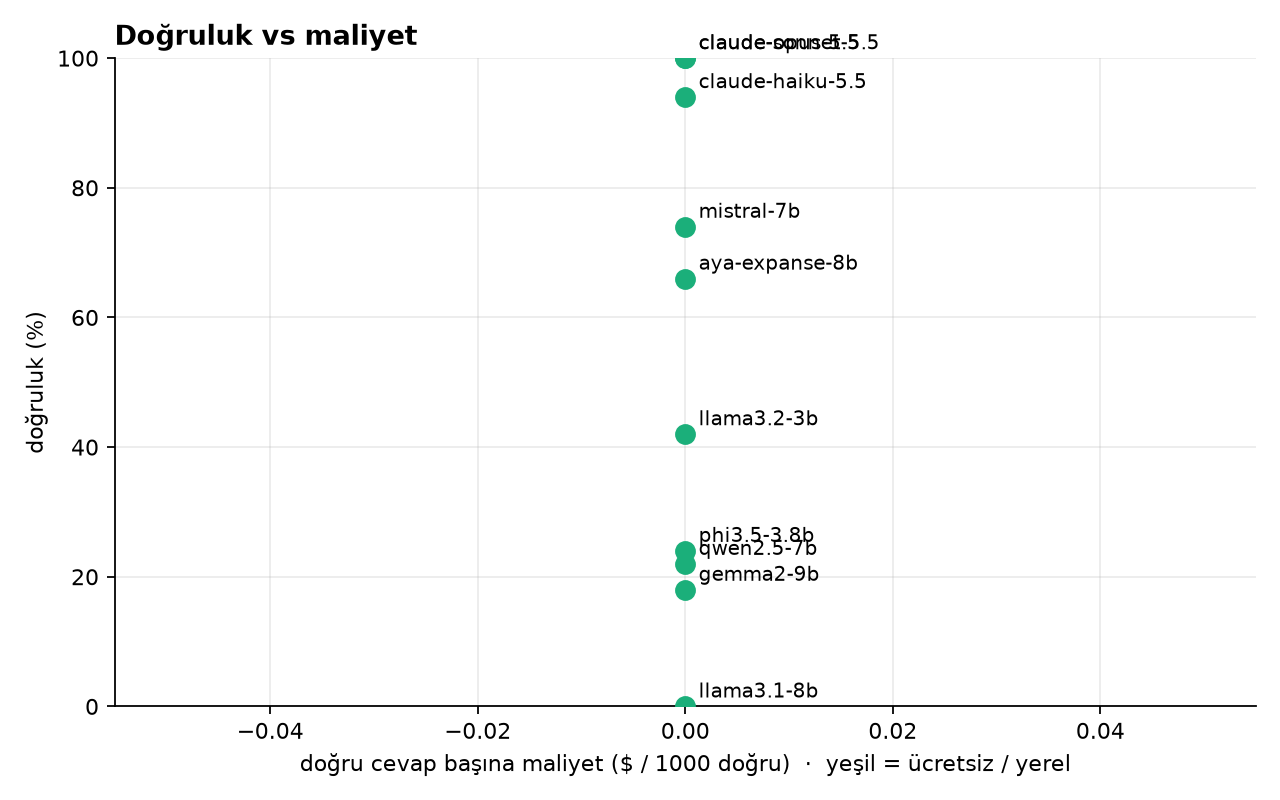
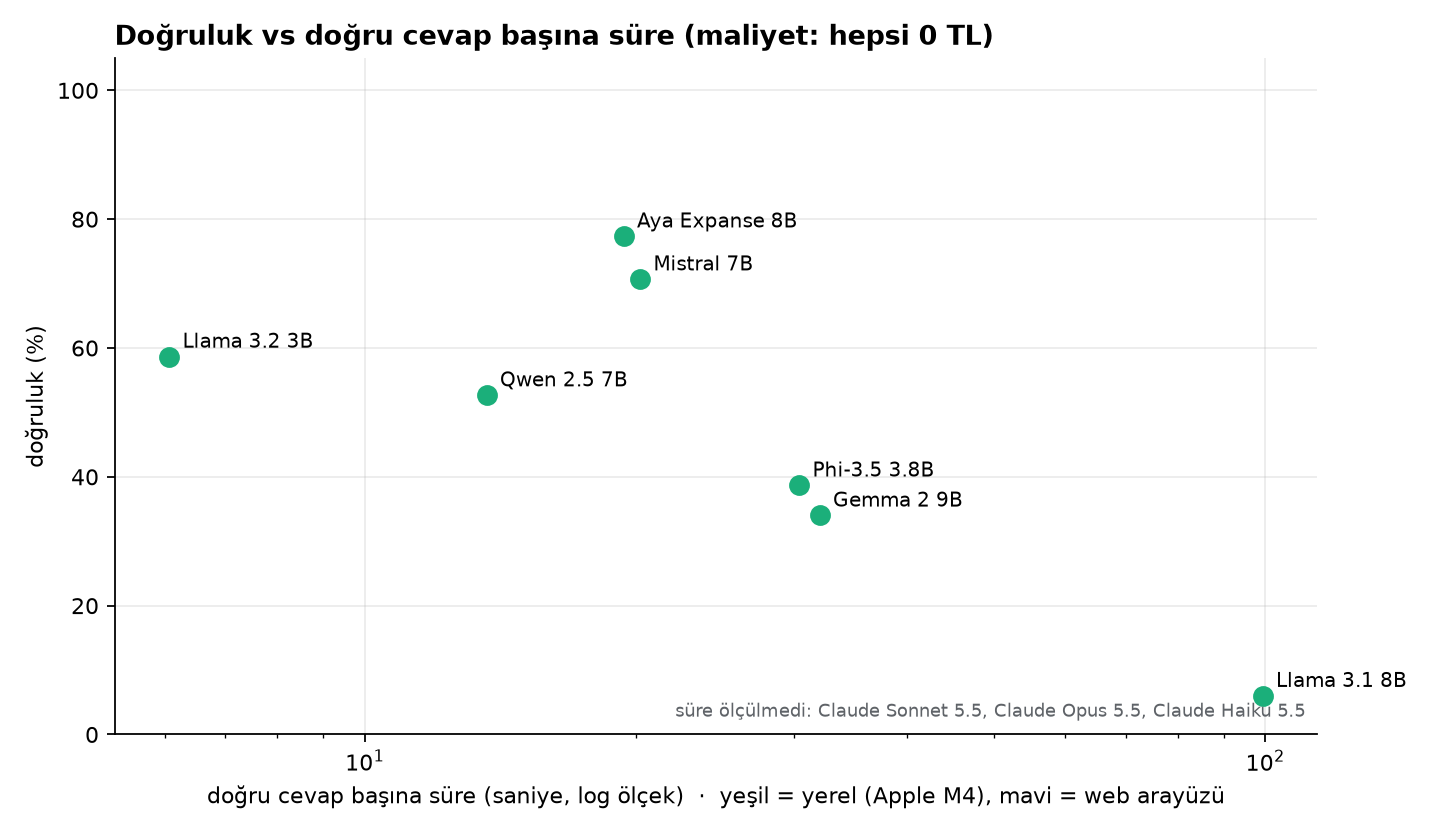
Update benchmark page with 150 questions and human vs AI results

diff --git a/src/Benchmark.tsx b/src/Benchmark.tsx
@@ -1,37 +1,42 @@
 import { ArrowUpRight } from 'lucide-react';
 
-// Scores from github.com/foqunty/turkce-ozet-halusinasyon-benchmark (prompt v1, temperature 0).
-// main: 50 fictional paragraphs · wiki: 25 real Wikipedia texts, original / one fact changed.
-type Row = { model: string; open: boolean; main: number; facts: number; fabNum: number; fabName: number; sec?: number; wikiOrig: number; wikiChanged: number };
+// Scores from github.com/foqunty/turkce-ozet-halusinasyon-benchmark (prompt v1, temperature 0 for open models).
+// main: 150 fictional paragraphs (100 human-written + 50 AI-written) · wiki: 25 real Wikipedia texts, original / one fact changed.
+type Row = { model: string; open: boolean; main: number; human: number; ai: number; facts: number; fabNum: number; fabName: number; sec?: number; wikiOrig?: number; wikiChanged?: number };
 const rows: Row[] = [
-  { model: 'Claude Opus 5.5', open: false, main: 100, facts: 3.0, fabNum: 0, fabName: 0, wikiOrig: 25, wikiChanged: 25 },
-  { model: 'Claude Sonnet 5.5', open: false, main: 100, facts: 3.0, fabNum: 0, fabName: 0, wikiOrig: 23, wikiChanged: 23 },
-  { model: 'Claude Haiku 5.5', open: false, main: 94, facts: 2.94, fabNum: 0, fabName: 0, wikiOrig: 20, wikiChanged: 17 },
-  { model: 'Mistral 7B', open: true, main: 74, facts: 2.72, fabNum: 4, fabName: 2, sec: 10.8, wikiOrig: 12, wikiChanged: 11 },
-  { model: 'Aya Expanse 8B', open: true, main: 66, facts: 2.62, fabNum: 0, fabName: 0, sec: 7.0, wikiOrig: 10, wikiChanged: 10 },
-  { model: 'Llama 3.2 3B', open: true, main: 42, facts: 2.26, fabNum: 0, fabName: 0, sec: 3.0, wikiOrig: 9, wikiChanged: 9 },
-  { model: 'Phi 3.5 3.8B', open: true, main: 24, facts: 2.32, fabNum: 48, fabName: 46, sec: 10.7, wikiOrig: 2, wikiChanged: 3 },
-  { model: 'Qwen 2.5 7B', open: true, main: 22, facts: 1.98, fabNum: 0, fabName: 2, sec: 4.3, wikiOrig: 6, wikiChanged: 5 },
-  { model: 'Gemma 2 9B', open: true, main: 18, facts: 1.88, fabNum: 0, fabName: 0, sec: 6.3, wikiOrig: 5, wikiChanged: 5 },
-  { model: 'Llama 3.1 8B', open: true, main: 0, facts: 0.78, fabNum: 46, fabName: 22, sec: 3.9, wikiOrig: 1, wikiChanged: 1 },
+  { model: 'Claude Opus 5.5', open: false, main: 100, human: 100, ai: 100, facts: 3.0, fabNum: 0, fabName: 0, wikiOrig: 25, wikiChanged: 25 },
+  { model: 'Claude Sonnet 5.5', open: false, main: 100, human: 100, ai: 100, facts: 3.0, fabNum: 0, fabName: 0, wikiOrig: 23, wikiChanged: 23 },
+  { model: 'Claude Haiku 5.5', open: false, main: 98, human: 100, ai: 94, facts: 2.98, fabNum: 0, fabName: 0, wikiOrig: 20, wikiChanged: 17 },
+  { model: 'Aya Expanse 8B', open: true, main: 77, human: 83, ai: 66, facts: 2.76, fabNum: 1, fabName: 0, sec: 15.0, wikiOrig: 10, wikiChanged: 10 },
+  { model: 'Mistral 7B', open: true, main: 71, human: 69, ai: 74, facts: 2.68, fabNum: 2, fabName: 1, sec: 14.3, wikiOrig: 12, wikiChanged: 11 },
+  { model: 'Llama 3.2 3B', open: true, main: 59, human: 67, ai: 42, facts: 2.49, fabNum: 0, fabName: 0, sec: 3.6, wikiOrig: 9, wikiChanged: 9 },
+  { model: 'Qwen 2.5 7B', open: true, main: 53, human: 68, ai: 22, facts: 2.35, fabNum: 0, fabName: 1, sec: 7.2, wikiOrig: 6, wikiChanged: 5 },
+  { model: 'Phi 3.5 3.8B', open: true, main: 39, human: 46, ai: 24, facts: 2.55, fabNum: 34, fabName: 33, sec: 11.7, wikiOrig: 2, wikiChanged: 3 },
+  { model: 'Gemma 2 9B', open: true, main: 34, human: 42, ai: 18, facts: 2.09, fabNum: 2, fabName: 0, sec: 10.9, wikiOrig: 5, wikiChanged: 5 },
+  { model: 'Llama 3.1 8B', open: true, main: 6, human: 9, ai: 0, facts: 0.97, fabNum: 24, fabName: 8, sec: 6.0, wikiOrig: 1, wikiChanged: 1 },
 ];
 const repo = 'https://github.com/foqunty/turkce-ozet-halusinasyon-benchmark';
+const hf = 'https://huggingface.co/datasets/foqunty/turkce-ozet-halusinasyon';
 
 export function BenchmarkPage() {
   return <main id="main" className="section-container content-section benchmark-page">
     <a className="benchmark-back" href="#home">← back to portfolio</a>
     <span className="section-command"><span className="green-text">~ $</span> cat leaderboard.md</span>
     <h2>Turkish summary benchmark<span className="green-text">.</span></h2>
-    <p className="section-description">Each question is a short Turkish paragraph with three critical facts: a number, a date and a name. A summary is correct only if it keeps all three and invents nothing. Scoring is done by code from the raw model output. Same prompt for every model, temperature 0, open models run locally with Ollama on an Apple M4 (16 GB).</p>
+    <p className="section-description">Each question is a short Turkish paragraph with three critical facts: a number, a date and a name. A summary is correct only if it keeps all three and invents nothing. Scoring is done by code from the raw model output. 150 questions: 100 written by hand and 50 generated by AI (labeled separately). Same prompt for every model; open models run locally with Ollama on an Apple M4 (16 GB) at temperature 0.</p>
     <div className="benchmark-table-wrap"><table className="benchmark-table">
-      <thead><tr><th>#</th><th>model</th><th>correct</th><th>facts / 3</th><th>made-up numbers</th><th>made-up names</th><th>s / question</th><th>wiki orig.</th><th>wiki changed</th></tr></thead>
-      <tbody>{rows.map((r, i) => <tr key={r.model}><td>{i + 1}</td><td>{r.model}{r.open && <span className="benchmark-open">open</span>}</td><td><span className="benchmark-bar" style={{ width: `${r.main}%` }} /><strong>{r.main}%</strong></td><td>{r.facts.toFixed(2)}</td><td className={r.fabNum >= 20 ? 'benchmark-bad' : ''}>{r.fabNum}%</td><td className={r.fabName >= 20 ? 'benchmark-bad' : ''}>{r.fabName}%</td><td>{r.sec ? r.sec.toFixed(1) : '–'}</td><td>{r.wikiOrig}/25</td><td>{r.wikiChanged}/25</td></tr>)}</tbody>
+      <thead><tr><th>#</th><th>model</th><th>correct (150)</th><th>human (100)</th><th>AI (50)</th><th>facts / 3</th><th>made-up numbers</th><th>made-up names</th><th>s / question</th><th>wiki orig.</th><th>wiki changed</th></tr></thead>
+      <tbody>{rows.map((r, i) => <tr key={r.model}><td>{i + 1}</td><td>{r.model}{r.open && <span className="benchmark-open">open</span>}</td><td><span className="benchmark-bar" style={{ width: `${r.main}%` }} /><strong>{r.main}%</strong></td><td>{r.human}%</td><td>{r.ai}%</td><td>{r.facts.toFixed(2)}</td><td className={r.fabNum >= 20 ? 'benchmark-bad' : ''}>{r.fabNum}%</td><td className={r.fabName >= 20 ? 'benchmark-bad' : ''}>{r.fabName}%</td><td>{r.sec ? r.sec.toFixed(1) : '–'}</td><td>{r.wikiOrig ?? '–'}{r.wikiOrig !== undefined && '/25'}</td><td>{r.wikiChanged ?? '–'}{r.wikiChanged !== undefined && '/25'}</td></tr>)}</tbody>
     </table></div>
-    <p className="section-description">"Wiki changed" is a memorization trap: real Wikipedia texts with one fact altered (e.g. Malazgirt 1071 → 1074). None of the 10 models wrote the memorized value instead of the one in the text. Cost is $0 for all runs (local models and a subscription UI), so time per question is shown instead.</p>
+    <p className="section-description">AI-written questions turned out harder: open models average 55% on human questions and 35% on AI questions. The AI paragraphs are denser (5.4 numbers and 4.9 names per paragraph vs. 3.8 and 2.5), and models write summaries of the same length on both sets, so they drop more facts. "Wiki changed" is a memorization trap: real Wikipedia texts with one fact altered (e.g. Malazgirt 1071 → 1074). None of the 10 models wrote the memorized value instead of the one in the text. Every run was free (local models and subscription UIs), so time per question is shown instead of cost.</p>
     <div className="benchmark-charts">
-      <figure><img src="./benchmark/model_kategori.png" alt="Accuracy by model and category" loading="lazy" /><figcaption>Accuracy by category (news · science · sports)</figcaption></figure>
-      <figure><img src="./benchmark/maliyet_dogruluk.png" alt="Accuracy versus time per question" loading="lazy" /><figcaption>Accuracy vs. time per question</figcaption></figure>
+      <figure><img src="./benchmark/insan_ai.png" alt="Accuracy on human-written vs AI-written questions" loading="lazy" /><figcaption>Human-written vs AI-written questions</figcaption></figure>
+      <figure><img src="./benchmark/model_kategori.png" alt="Accuracy by model and category on the human-written set" loading="lazy" /><figcaption>Accuracy by category (human-written set)</figcaption></figure>
+      <figure><img src="./benchmark/maliyet_dogruluk.png" alt="Accuracy versus time per correct answer" loading="lazy" /><figcaption>Accuracy vs. time per correct answer</figcaption></figure>
     </div>
-    <div className="project-links"><a href={repo} target="_blank" rel="noopener noreferrer">Source code and method <ArrowUpRight size={14} /></a></div>
+    <div className="project-links">
+      <a href={repo} target="_blank" rel="noopener noreferrer">Source code and method <ArrowUpRight size={14} /></a>
+      <a href={hf} target="_blank" rel="noopener noreferrer">Dataset on Hugging Face (gated) <ArrowUpRight size={14} /></a>
+    </div>
   </main>;
 }

diff --git a/src/data/projects.ts b/src/data/projects.ts
@@ -5,8 +5,8 @@ export const projects: Project[] = [
   {
     id: 'turkish-summary-benchmark',
     name: 'Turkish Summary Hallucination Benchmark',
-    shortDescription: 'Do LLMs keep the numbers, dates and names when they summarize Turkish text? 10 models tested.',
-    description: 'A benchmark I built to test LLM summaries in Turkish. Each question is a Turkish paragraph with three critical facts: a number, a date and a name. A model is correct only if its summary keeps all three and invents nothing. A Python scorer handles Turkish spellings (12 Mart = 12.03, yüzde 45 = %45) and flags made-up numbers and names. I ran 3 Claude models and 7 open models on my Mac with Ollama, then added a memorization trap: real Turkish Wikipedia texts with one fact changed (Malazgirt 1071 → 1074) to see if models trust the text or their memory.',
+    shortDescription: 'Do LLMs keep the numbers, dates and names when they summarize Turkish text? 150 questions, 10 models.',
+    description: 'A benchmark I built to test LLM summaries in Turkish. Each question is a Turkish paragraph with three critical facts: a number, a date and a name. A model is correct only if its summary keeps all three and invents nothing. A Python scorer handles Turkish spellings (12 Mart = 12.03, yüzde 45 = %45) and flags made-up numbers and names. The set has 100 hand-written and 50 AI-written questions, labeled separately. I ran 3 Claude models and 7 open models on my Mac with Ollama, then added a memorization trap: real Turkish Wikipedia texts with one fact changed (Malazgirt 1071 → 1074) to see if models trust the text or their memory.',
     technologies: ['Python', 'Ollama', 'LLM evaluation', 'matplotlib'],
     category: 'AI / EVALUATION',
     githubUrl: 'https://github.com/foqunty/turkce-ozet-halusinasyon-benchmark',
@@ -14,10 +14,11 @@ export const projects: Project[] = [
     releaseDate: '2026',
     problem: 'Summaries that silently change a number or a name are dangerous, and there was no small Turkish test for it.',
     features: [
-      'Claude Opus and Sonnet 50/50; best open models Mistral 7B (37/50) and Aya Expanse 8B (33/50)',
-      'Two failure types: models that drop facts vs. models that invent them (Llama 3.1 8B: 54% of summaries)',
+      'Claude Opus and Sonnet 150/150; best open models Aya Expanse 8B (77%) and Mistral 7B (71%)',
+      'AI-written questions were harder than hand-written ones (35% vs 55% for open models) because they are denser',
+      'Two failure types: models that drop facts vs. models that invent them (Phi-3.5: 45% of summaries)',
       'Memorization trap: none of the 10 models wrote the memorized value over the changed text',
-      'Llama 3.2 3B beat the larger Llama 3.1 8B (21 vs 0 out of 50)',
+      'Two LLM judges agree with each other 80% of the time but with the code only about half: they catch meaning drift, the code catches missing facts',
     ],
   },
   {
